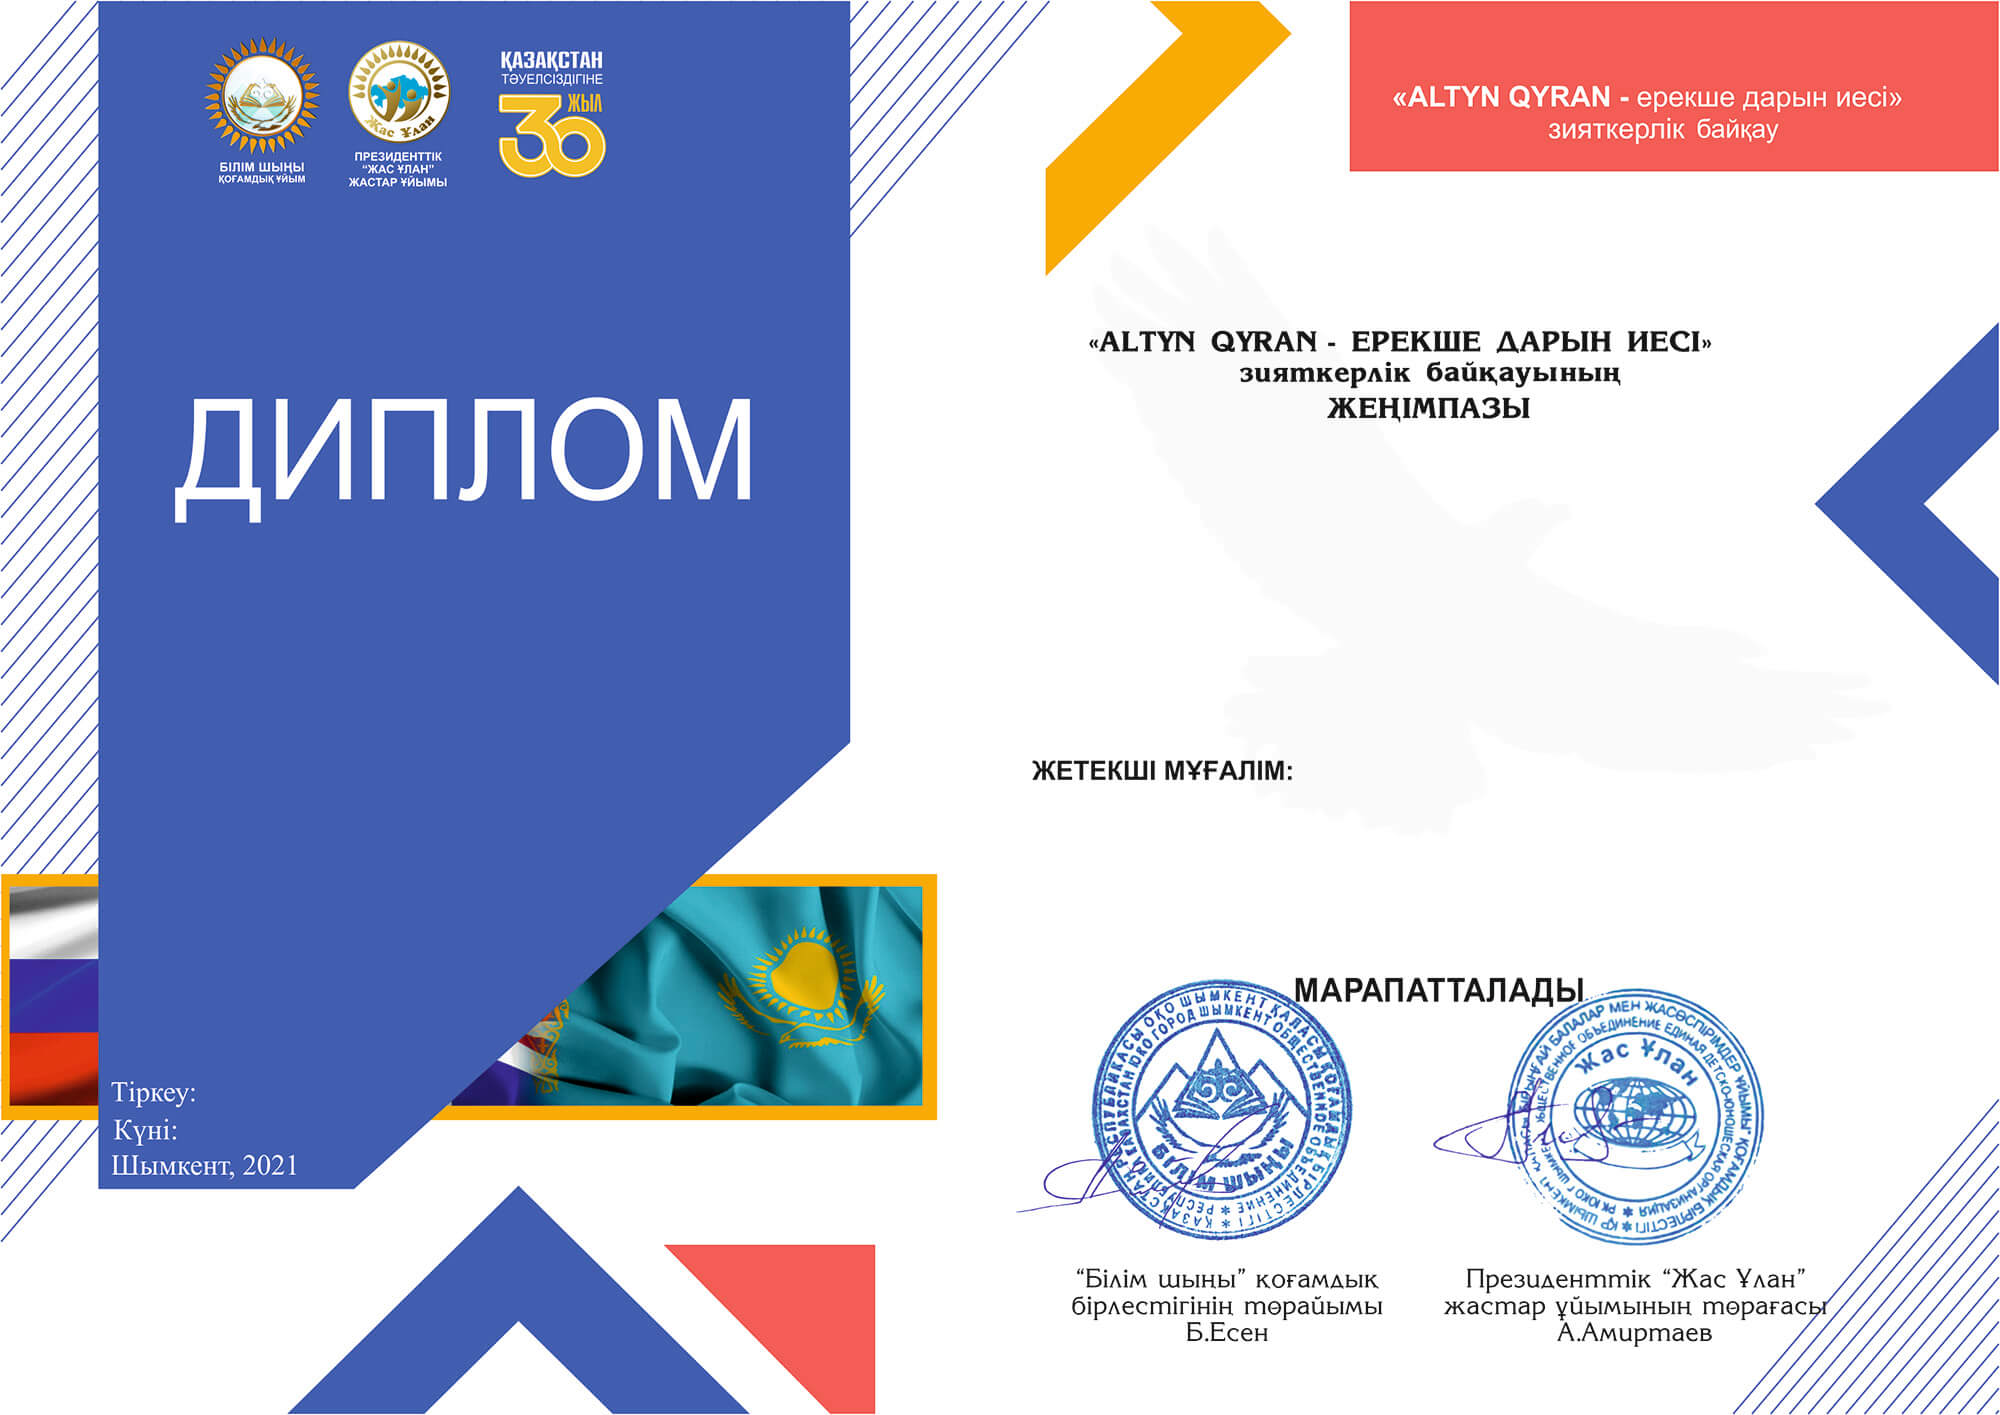
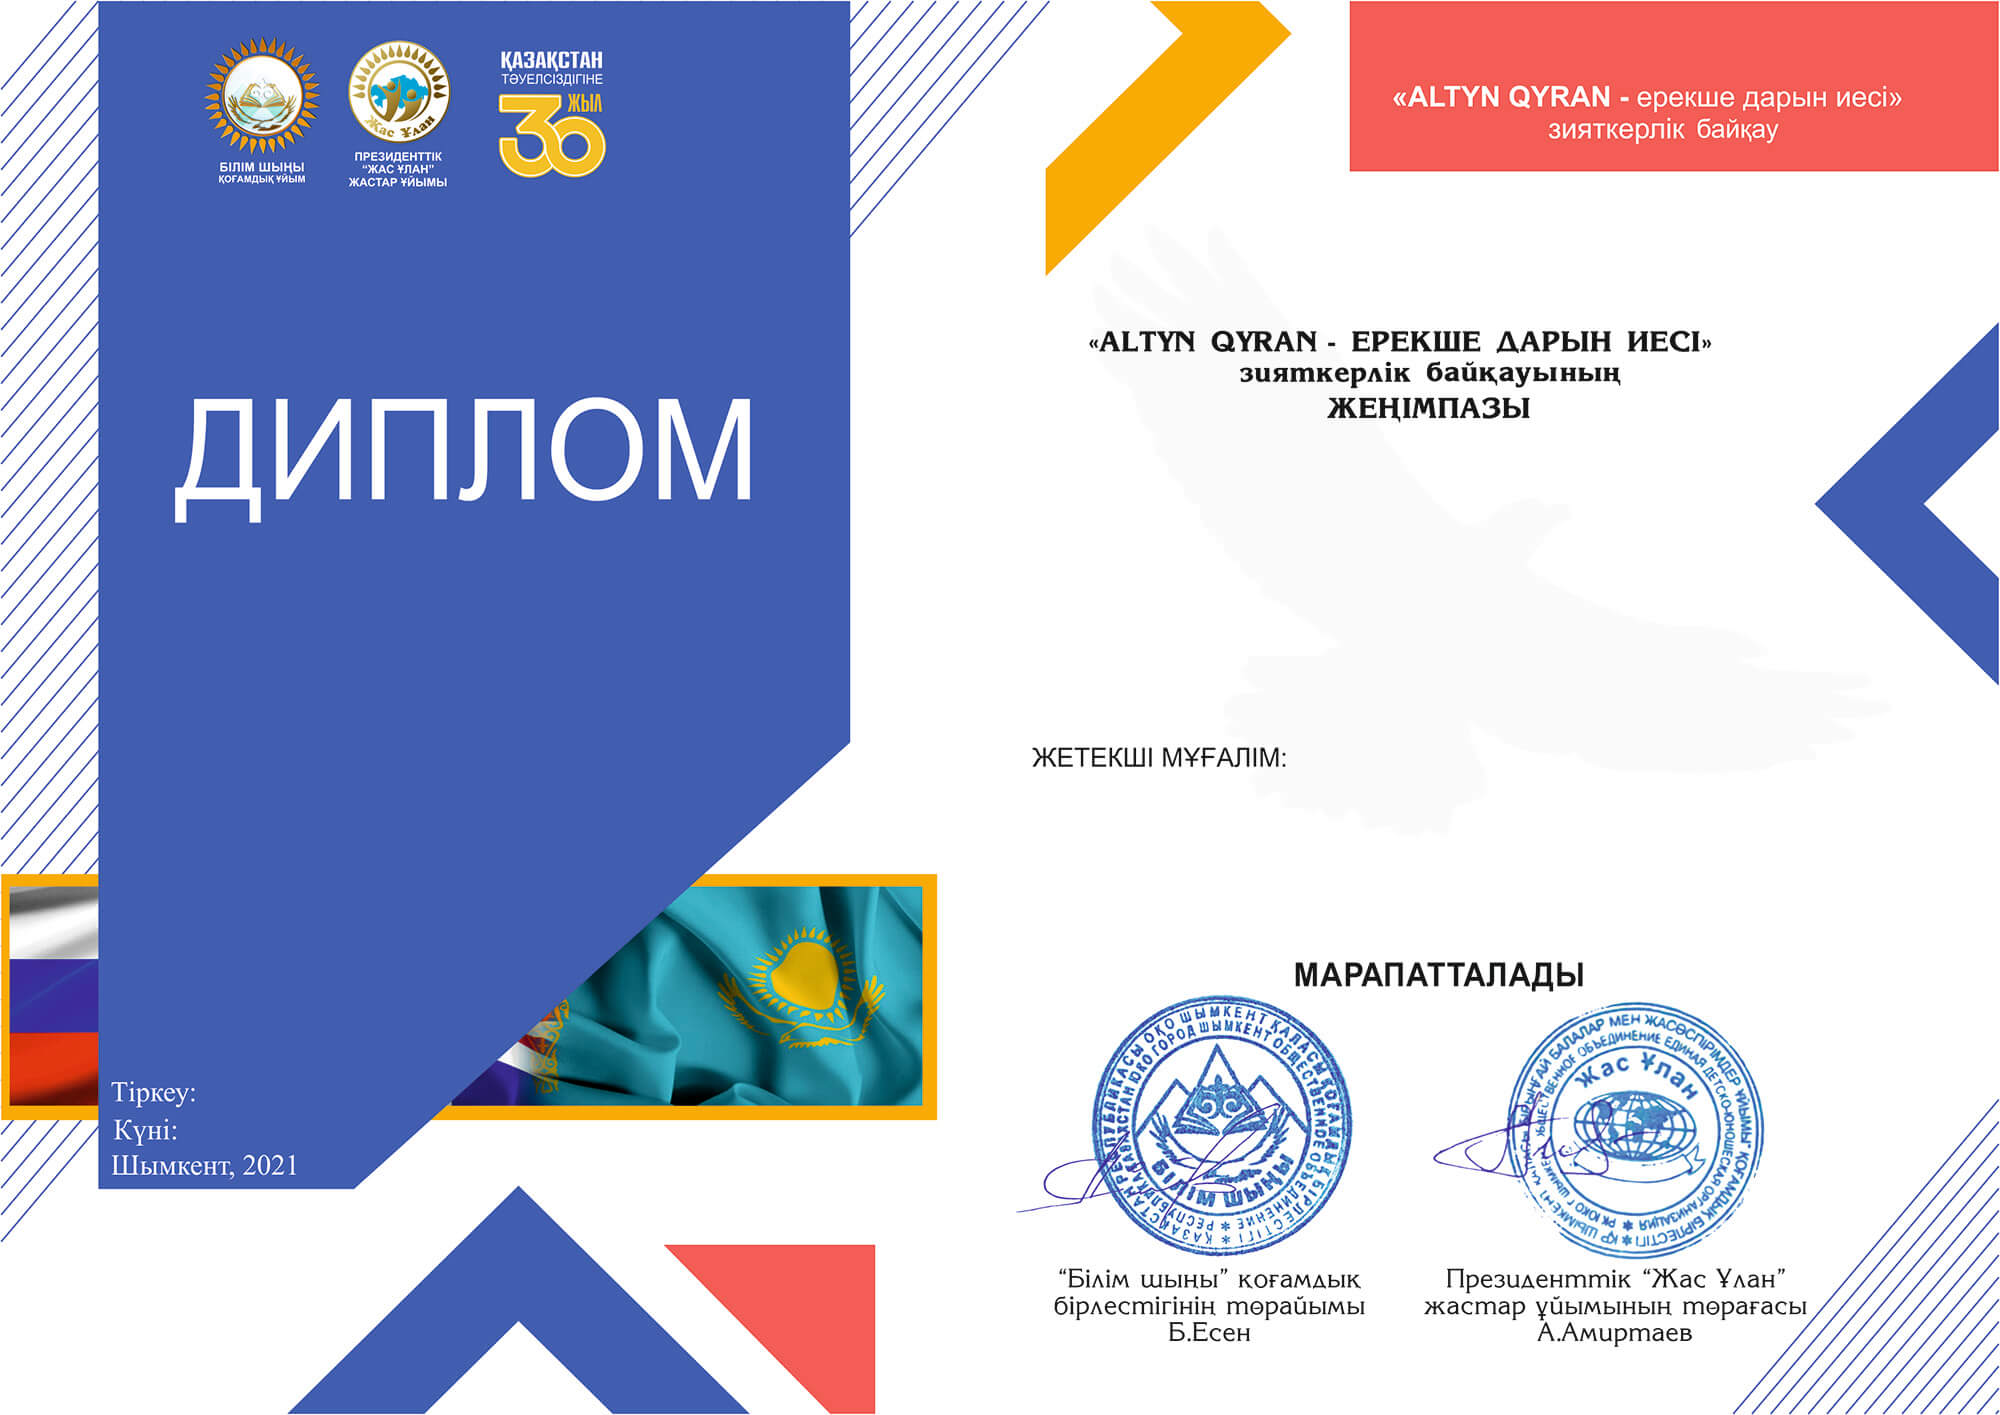
Olympiad fixes

Changed region(s): [[0.527, 0.6841, 0.899, 0.964], [0.496, 0.5286, 0.651, 0.5597]]

diff --git a/frontend/views/olympiad/_cert-thank-leader.php b/frontend/views/olympiad/_cert-thank-leader.php
@@ -10,16 +10,10 @@ $qrCode = (new QrCode(\yii\helpers\Url::toRoute(['olympiad/get-cert-thank-leader
 <div>
     <div class="cert-page" style="background-image: url('./img/thanks-altyn-qyran-2021.jpg'); text-align: center; background-size: cover; background-repeat: no-repeat; font-family: 'Times New Roman'; height: 800px">
         <div style="padding-left: 360px; padding-top: 200px">
-            <div style="padding-top: 15px; padding-left: 60px; width: 600px;">
-                <div id="cert-name" style="height: 120px; font-size: 22px; font-weight: bold; color: #000">
-                    <?= $testAssignment->leader_name ?>
-                    <br>
-                    <?= $testAssignment->leader_name_second ?>
-                    <br>
-                    <?= $testAssignment->leader_name_third ?>
-                </div>
+            <div style="padding-top: 30px;">
+                <div id="cert-name" style="height: 80px; font-size: 22px; font-weight: bold; text-transform: uppercase; color: #000"><span style="padding-left: -5px"><?= $testAssignment->leader_name ?>!</div>
             </div>
-            <div id="footer" style="text-align: left; padding-left: 20px; padding-top: 275px; width: 160px; font-size: 16px; color: #454545; font-family: 'Times New Roman'">
+            <div id="footer" style="text-align: left; padding-left: 20px; padding-top: 300px; width: 160px; font-size: 16px; color: #454545; font-family: 'Times New Roman'">
                 <div id="cert-qrcode" style="width: 160px; font-size: 22px; padding-left: -52px; font-weight: bold;"><img src="<?= $qrCode->writeDataUri() ?>"></div>
                 <div id="cert-number" style="padding-top: 5px"> №<?= $testAssignment->id ?></div>
                 <div id="cert-date" style="padding-top: 0;"><?= date('d.m.Y') ?> жыл</div>

diff --git a/frontend/views/olympiad/_diploma.php b/frontend/views/olympiad/_diploma.php
@@ -30,15 +30,10 @@ $qrCode = (new QrCode(\yii\helpers\Url::toRoute(['olympiad/get-cert', 'id' => $t
                     <b><?= $testAssignment->surname . ' ' . $testAssignment->name . ' ' . $testAssignment->patronymic ?></b>
                 </div>
             </div>
-            <div style="padding-top: 15px; font-size: 22px; height: 120px; text-transform: capitalize">
-                <?= $testAssignment->leader_name ?>
-                <br>
-                <?= $testAssignment->leader_name_second ?>
-                <br>
-                <?= $testAssignment->leader_name_third ?>
-            </div>
+            <div style="padding-top: 20px; font-size: 20px;"><?= $testAssignment->leader_name ?></div>
+            <div style="font-size: 20px;"><?= $testAssignment->leader_name_second ?></div>
         </div>
-        <div class="border" style="padding-left: 120px; padding-top: -108px; color: #fff9f6">
+        <div class="border" style="padding-left: 120px; padding-top: -50px; color: #fff9f6">
             <div id="cert-qrcode" style="padding-left: -55px; padding-top: 24px;"><?= '<img src="' . $qrCode->writeDataUri() . '">' ?></div>
             <div id="cert-number" style="font-size: 14px; padding-top: 12px">№<?= $testAssignment->id ?></div>
             <div id="cert-date" style="font-size: 14px; padding-top: 1px; padding-left: -10px"><?= date('d.m.Y') ?> жыл</div>

diff --git a/frontend/views/olympiad/_cert.php b/frontend/views/olympiad/_cert.php
@@ -35,15 +35,11 @@ if ($testAssignment->testOption->test->olympiad_id === 8) {
             <div style="font-size: 18px; padding-top: 3px; color: #000">
                 <b><?= $testAssignment->surname . ' ' . $testAssignment->name . ' ' . $testAssignment->patronymic ?></b>
             </div>
-            <div style="padding-left: -20px; font-size: 22px; color: #000; padding-top: 30px; height: 120px; text-transform: capitalize;">
+            <div style="font-size: 18px; color: #000; padding-top: 40px">
                 <b><?= $testAssignment->leader_name ?></b>
-                <br>
-                <b><?= $testAssignment->leader_name_second ?></b>
-                <br>
-                <b><?= $testAssignment->leader_name_third ?></b>
             </div>
         </div>
-        <div style="padding-left: 910px; padding-top: -102px">
+        <div style="padding-left: 910px; padding-top: -18px">
             <div id="cert-number" style="font-size: 14px;">№<?= $testAssignment->id ?></div>
             <div id="cert-date" style="font-size: 14px; padding-top: 3px"><?= date('d.m.Y') ?> жыл</div>
         </div>

diff --git a/frontend/views/olympiad/assignment.php b/frontend/views/olympiad/assignment.php
@@ -71,8 +71,6 @@ $this->params['heroDescription'] = 'БІЛІМ ШЫҢЫ - ҒЫЛЫМ СЫРЫ';
 
         <?= $form->field($model, 'leader_name_second')->textInput()->label('Орыс тілі пәні мұғалімі') ?>
 
-        <?= $form->field($model, 'leader_name_third')->textInput()->label('Ағылшын тілі пәні мұғалімі') ?>
-
         <?= \yii\bootstrap4\Html::submitButton(Yii::t('app', 'Отправить'), ['class' => 'btn btn-success']) ?>
 
         <?php ActiveForm::end() ?>
